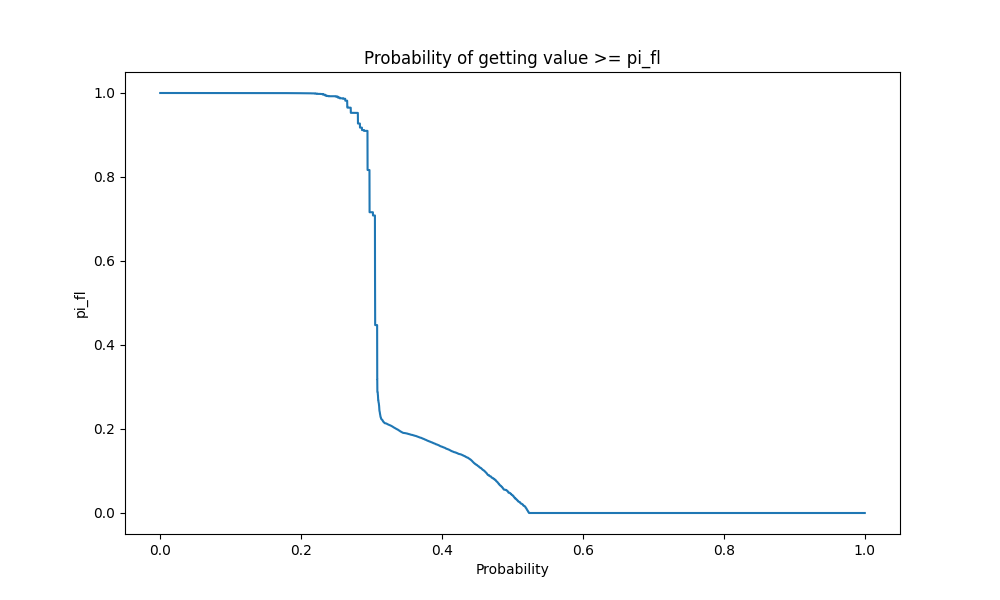
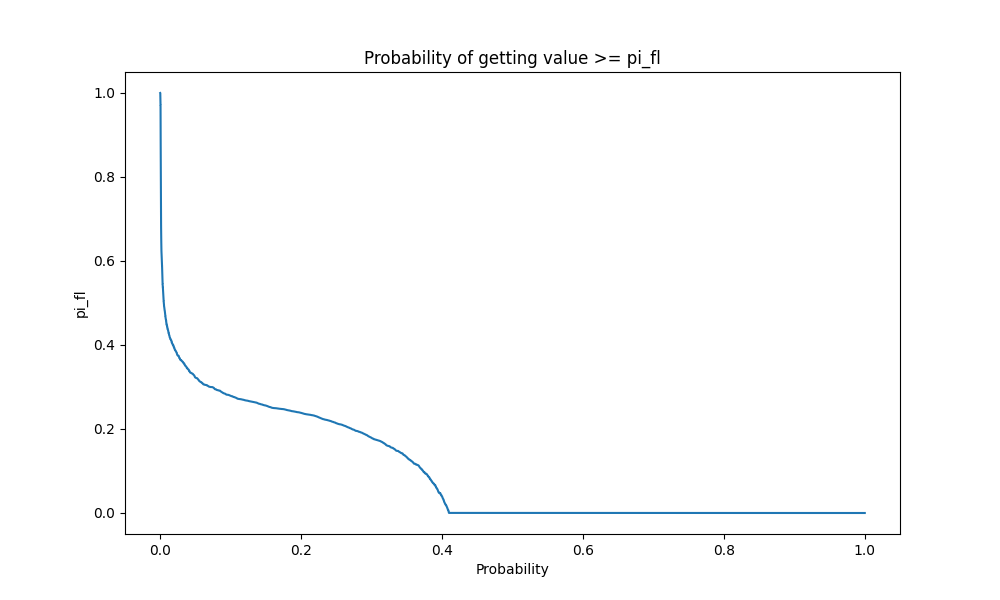
plots

diff --git a/suppress_threshold_attack.py b/suppress_threshold_attack.py
@@ -147,7 +147,8 @@ def do_plots():
     # Plot 'probability' vs 'pi_fl'
     plt.figure(figsize=(10, 6))
     plt.plot(X_test_all_sorted['probability'], X_test_all_sorted['pi_fl'])
-    plt.xlabel('Probability')
+    plt.xscale('log')
+    plt.xlabel('Probability (log)')
     plt.ylabel('pi_fl')
     plt.title('Probability of getting value >= pi_fl')
     plt.savefig(os.path.join(attack_path, 'pi_fl_cdf.png'))
